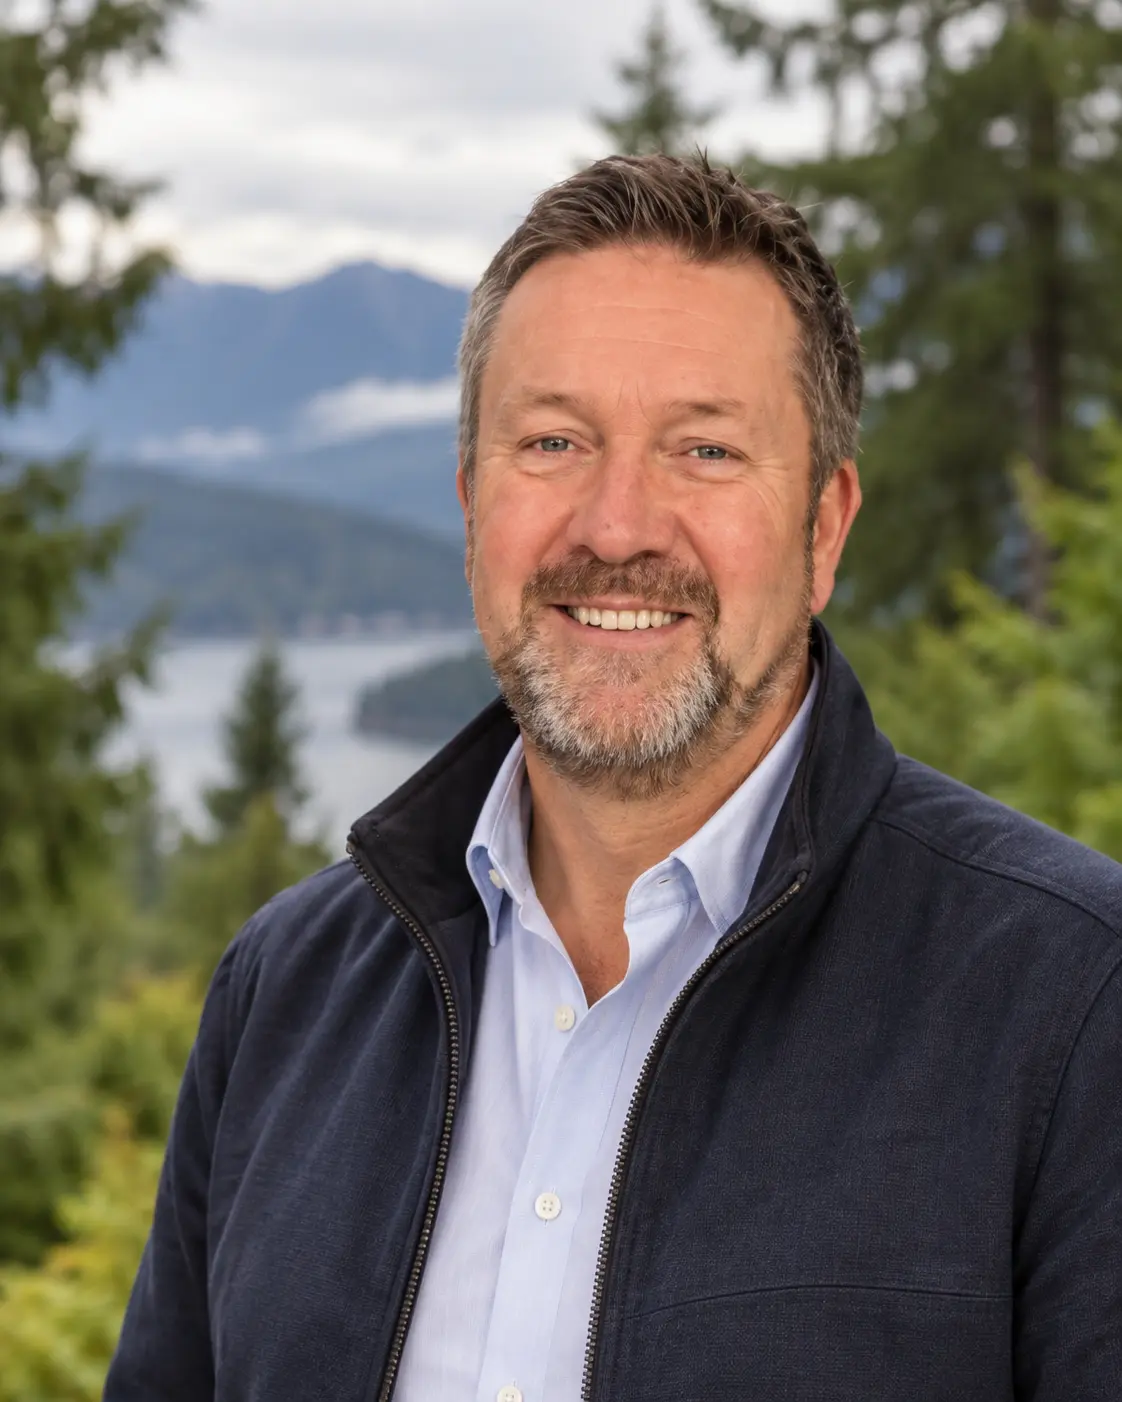
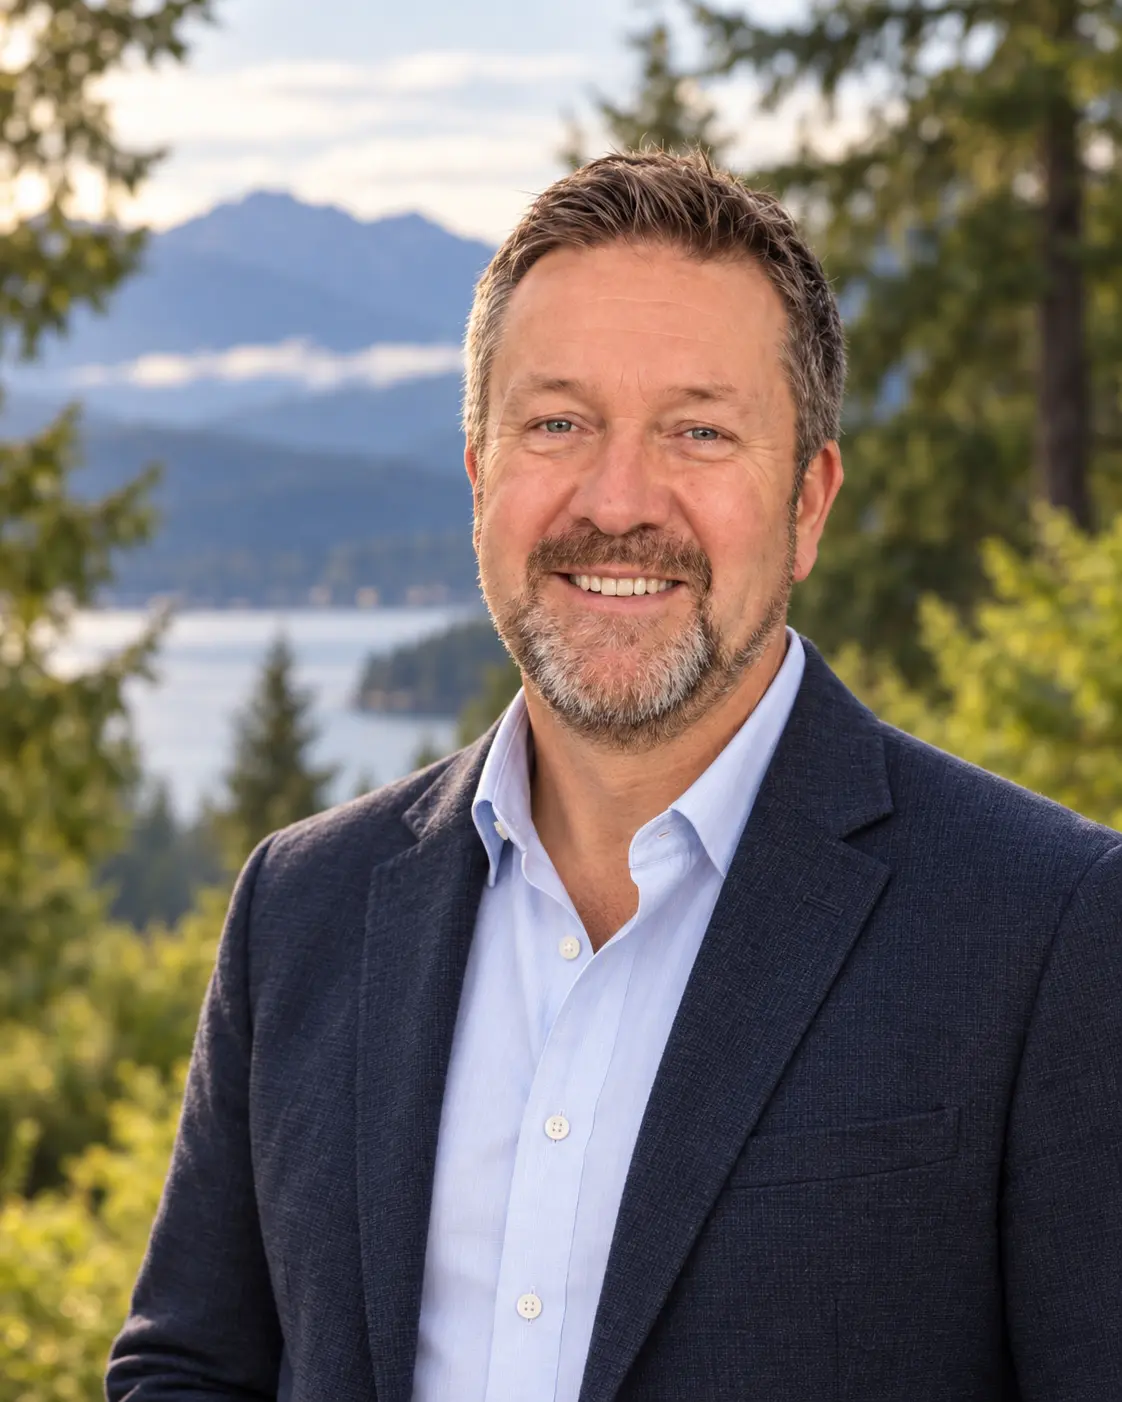
Polish campaign design and upgrade Rod portrait

diff --git a/styles.css b/styles.css
@@ -12,6 +12,7 @@
   --gold-light: #edc47d;
   --line: rgba(23, 33, 30, 0.14);
   --shadow: 0 28px 80px rgba(6, 22, 17, 0.16);
+  --shadow-soft: 0 18px 50px rgba(6, 22, 17, 0.12);
   --serif: Georgia, "Times New Roman", serif;
   --sans: Inter, ui-sans-serif, -apple-system, BlinkMacSystemFont, "Segoe UI", sans-serif;
 }
@@ -44,15 +45,15 @@ button, a { -webkit-tap-highlight-color: transparent; }
 .menu-toggle { display: none; width: 44px; height: 44px; border: 0; background: transparent; cursor: pointer; }
 .menu-toggle > span:not(.sr-only) { display: block; width: 24px; height: 2px; margin: 5px auto; background: currentColor; transition: transform .2s ease, opacity .2s ease; }
 
-.hero { position: relative; min-height: 820px; display: grid; place-items: center; overflow: hidden; color: white; background: var(--forest-950); }
-.hero-landscape { position: absolute; inset: 0; width: 100%; height: 100%; object-fit: cover; object-position: center; opacity: .66; }
-.hero-overlay { position: absolute; inset: 0; background: linear-gradient(90deg, rgba(6,22,18,.93) 0%, rgba(7,27,22,.77) 42%, rgba(7,20,18,.24) 76%, rgba(7,20,18,.08) 100%), linear-gradient(0deg, rgba(6,20,17,.35), transparent 45%); }
-.hero-shell { position: relative; z-index: 2; width: min(1180px, calc(100% - 3rem)); margin: 0 auto; padding: 146px 0 76px; display: grid; grid-template-columns: minmax(0, 1.12fr) minmax(330px, .72fr); align-items: center; gap: clamp(3rem, 8vw, 7rem); }
+.hero { position: relative; min-height: 760px; display: grid; place-items: center; overflow: hidden; color: white; background: var(--forest-950); }
+.hero-landscape { position: absolute; inset: 0; width: 100%; height: 100%; object-fit: cover; object-position: center; opacity: .55; filter: saturate(.82); transform: scale(1.015); }
+.hero-overlay { position: absolute; inset: 0; background: linear-gradient(90deg, rgba(5,22,18,.97) 0%, rgba(6,25,20,.9) 39%, rgba(7,24,20,.56) 66%, rgba(7,20,18,.3) 100%), linear-gradient(0deg, rgba(5,20,16,.48), transparent 52%); }
+.hero-shell { position: relative; z-index: 2; width: min(1180px, calc(100% - 3rem)); margin: 0 auto; padding: 132px 0 70px; display: grid; grid-template-columns: minmax(0, 1.08fr) minmax(340px, .68fr); align-items: center; gap: clamp(3.5rem, 7vw, 6.5rem); }
 .eyebrow { margin: 0 0 1rem; color: var(--gold-light); font-size: .78rem; font-weight: 800; letter-spacing: .18em; text-transform: uppercase; }
 .eyebrow.dark { color: var(--forest-700); }
 .eyebrow.light { color: var(--gold-light); }
-.hero h1 { max-width: 760px; margin: 0; font: 500 clamp(3.4rem, 6.4vw, 6.4rem)/.96 var(--serif); letter-spacing: -.045em; text-wrap: balance; }
-.hero h1 em { color: var(--gold-light); font-weight: 400; }
+.hero h1 { max-width: 720px; margin: 0; font: 500 clamp(3.3rem, 5.3vw, 5.4rem)/.98 var(--serif); letter-spacing: -.04em; text-wrap: balance; }
+.hero h1 em { color: var(--gold-light); font-weight: 400; font-style: normal; }
 .hero-lede { max-width: 620px; margin: 1.75rem 0 0; color: rgba(255,255,255,.87); font-size: clamp(1.05rem, 1.5vw, 1.22rem); line-height: 1.6; }
 .hero-actions, .vote-actions { display: flex; flex-wrap: wrap; align-items: center; gap: 1rem; margin-top: 2rem; }
 .button { display: inline-flex; min-height: 52px; align-items: center; justify-content: center; padding: .85rem 1.35rem; border: 1px solid transparent; border-radius: 999px; font-size: .9rem; font-weight: 760; text-decoration: none; transition: transform .18s ease, background .18s ease, border-color .18s ease; }
@@ -61,17 +62,17 @@ button, a { -webkit-tap-highlight-color: transparent; }
 .button-primary:hover { background: #f6d69e; }
 .button-ghost { color: white; border-color: rgba(255,255,255,.45); background: rgba(255,255,255,.04); }
 .button-ghost:hover { border-color: white; background: rgba(255,255,255,.12); }
-.election-date { display: flex; align-items: center; gap: .85rem; margin-top: 3.5rem; }
+.election-date { display: flex; align-items: center; gap: .85rem; margin-top: 2.8rem; }
 .election-date > span { font: 500 2.8rem/1 var(--serif); color: var(--gold-light); }
 .election-date p { margin: 0; display: flex; flex-direction: column; color: rgba(255,255,255,.66); font-size: .78rem; letter-spacing: .04em; }
 .election-date strong { color: white; font-size: .8rem; letter-spacing: .12em; text-transform: uppercase; }
-.hero-portrait { margin: 0; }
-.portrait-frame { position: relative; overflow: hidden; border: 1px solid rgba(255,255,255,.3); border-radius: 52% 52% 1.2rem 1.2rem / 28% 28% 1.2rem 1.2rem; box-shadow: 0 30px 90px rgba(0,0,0,.35); }
-.portrait-frame::after { content: ""; position: absolute; inset: 0; box-shadow: inset 0 0 0 8px rgba(255,255,255,.06); pointer-events: none; }
-.portrait-frame img { width: 100%; aspect-ratio: 4/5; object-fit: cover; object-position: 50% 40%; }
-.hero-portrait figcaption { display: flex; flex-direction: column; gap: .1rem; padding: 1rem .25rem 0; }
+.hero-portrait { position: relative; width: min(100%, 455px); margin: 0 0 0 auto; }
+.portrait-frame { position: relative; overflow: hidden; aspect-ratio: 4/5; border: 1px solid rgba(255,255,255,.26); border-radius: 1.15rem; background: var(--forest-800); box-shadow: 0 34px 90px rgba(0,0,0,.34); }
+.portrait-frame::after { content: ""; position: absolute; inset: 0; box-shadow: inset 0 0 0 1px rgba(255,255,255,.08); pointer-events: none; }
+.portrait-frame img { width: 100%; height: 100%; object-fit: cover; object-position: 50% 33%; }
+.hero-portrait figcaption { position: absolute; right: 1.25rem; bottom: -1.25rem; left: 1.25rem; display: flex; flex-direction: column; gap: .15rem; padding: 1rem 1.15rem; border: 1px solid rgba(255,255,255,.18); border-radius: .65rem; background: rgba(10,28,24,.94); box-shadow: 0 18px 45px rgba(0,0,0,.24); backdrop-filter: blur(10px); }
 .hero-portrait figcaption strong { color: var(--gold-light); font-family: var(--serif); font-size: 1.15rem; }
-.hero-portrait figcaption span { color: rgba(255,255,255,.72); font-size: .85rem; }
+.hero-portrait figcaption span { color: rgba(255,255,255,.72); font-size: .8rem; }
 
 .proof-band { position: relative; z-index: 3; color: white; background: var(--forest-800); }
 .proof-shell { display: grid; grid-template-columns: repeat(3, 1fr); }
@@ -80,14 +81,14 @@ button, a { -webkit-tap-highlight-color: transparent; }
 .proof-shell strong { color: var(--gold-light); font: 500 2rem/1 var(--serif); }
 .proof-shell span { max-width: 155px; color: rgba(255,255,255,.78); font-size: .8rem; line-height: 1.4; }
 
-.section { padding: clamp(5rem, 9vw, 8.5rem) 0; }
+.section { padding: clamp(5rem, 8vw, 7.5rem) 0; }
 .section-heading { display: grid; grid-template-columns: .55fr 1.2fr .8fr; align-items: end; gap: 3rem; margin-bottom: 3.4rem; }
 .section-heading .eyebrow { align-self: start; }
-.section-heading h2, .story-copy h2, .approach-heading h2, .vote-copy h2, .connect-shell h2 { margin: 0; font: 500 clamp(2.5rem, 4.6vw, 4.8rem)/1.02 var(--serif); letter-spacing: -.035em; text-wrap: balance; }
+.section-heading h2, .story-copy h2, .approach-heading h2, .vote-copy h2, .connect-shell h2 { margin: 0; font: 500 clamp(2.5rem, 4.1vw, 4.35rem)/1.02 var(--serif); letter-spacing: -.035em; text-wrap: balance; }
 .section-heading > p:last-child { margin: 0; color: var(--muted); font-size: 1.02rem; }
 .priorities-section { background: var(--paper); }
 .priority-grid { display: grid; grid-template-columns: repeat(3, 1fr); gap: 1.2rem; }
-.priority-card { position: relative; min-height: 430px; padding: 2.2rem; display: flex; flex-direction: column; justify-content: flex-end; overflow: hidden; border: 1px solid var(--line); border-radius: .9rem; background: #fff; box-shadow: 0 8px 30px rgba(10,30,23,.04); }
+.priority-card { position: relative; min-height: 390px; padding: 2.2rem; display: flex; flex-direction: column; justify-content: flex-end; overflow: hidden; border: 1px solid var(--line); border-radius: .9rem; background: #fff; box-shadow: var(--shadow-soft); }
 .priority-card.featured { color: white; border-color: transparent; background: var(--forest-800); transform: translateY(-1.5rem); box-shadow: var(--shadow); }
 .priority-number { position: absolute; top: 1.5rem; right: 1.6rem; color: rgba(22,44,35,.26); font: 500 .8rem/1 var(--sans); letter-spacing: .16em; }
 .featured .priority-number { color: rgba(255,255,255,.42); }
@@ -100,9 +101,9 @@ button, a { -webkit-tap-highlight-color: transparent; }
 .priority-card.featured p { color: rgba(255,255,255,.72); }
 
 .story-section { background: var(--cream); }
-.story-shell { display: grid; grid-template-columns: minmax(320px, .88fr) minmax(0, 1.1fr); align-items: center; gap: clamp(3rem, 9vw, 8rem); }
-.story-image { position: relative; padding: 0 2.5rem 5rem 0; }
-.story-image > img { width: 100%; aspect-ratio: 4/5; object-fit: cover; object-position: 50% 40%; border-radius: .8rem; box-shadow: var(--shadow); }
+.story-shell { display: grid; grid-template-columns: minmax(320px, .8fr) minmax(0, 1.2fr); align-items: center; gap: clamp(3rem, 8vw, 7rem); }
+.story-image { position: relative; width: 100%; max-width: 500px; padding: 0 2rem 4.5rem 0; }
+.story-image > img { width: 100%; height: clamp(560px, 54vw, 700px); object-fit: cover; object-position: 50% 34%; border-radius: .8rem; box-shadow: var(--shadow); }
 .story-image blockquote { position: absolute; right: 0; bottom: 0; width: min(390px, 84%); margin: 0; padding: 1.7rem 1.8rem; color: white; background: var(--forest-800); border-radius: .5rem; box-shadow: 0 20px 60px rgba(10,30,23,.22); }
 .story-image blockquote p { margin: 0 0 .8rem; font: italic 1.05rem/1.5 var(--serif); }
 .story-image blockquote cite { color: var(--gold-light); font-size: .72rem; font-style: normal; font-weight: 800; letter-spacing: .14em; text-transform: uppercase; }
@@ -123,15 +124,15 @@ button, a { -webkit-tap-highlight-color: transparent; }
 
 .vote-section { background: var(--paper); }
 .vote-shell { display: grid; grid-template-columns: .55fr 1.45fr; gap: clamp(3rem, 8vw, 8rem); align-items: center; }
-.vote-date { width: 280px; height: 280px; display: grid; place-items: center; align-content: center; color: white; background: var(--forest-800); border-radius: 50%; box-shadow: var(--shadow); }
+.vote-date { width: 245px; height: 245px; display: grid; place-items: center; align-content: center; color: white; background: var(--forest-800); border-radius: 50%; box-shadow: var(--shadow-soft); }
 .vote-date span, .vote-date small { font-size: .75rem; font-weight: 800; letter-spacing: .2em; }
-.vote-date strong { margin: -.2rem 0; color: var(--gold-light); font: 500 7rem/.9 var(--serif); }
+.vote-date strong { margin: -.2rem 0; color: var(--gold-light); font: 500 6.2rem/.9 var(--serif); }
 .vote-copy > p:not(.eyebrow) { max-width: 720px; color: var(--muted); }
 .button-dark { color: white; background: var(--forest-800); }
 .button-dark:hover { background: var(--forest-700); }
 .text-link { font-size: .9rem; font-weight: 760; text-underline-offset: .3rem; }
 
-.connect-section { position: relative; padding: clamp(5rem, 8vw, 7rem) 0; overflow: hidden; text-align: center; color: white; background: var(--forest-700); }
+.connect-section { position: relative; padding: clamp(5rem, 7vw, 6.5rem) 0; overflow: hidden; text-align: center; color: white; background: linear-gradient(135deg, var(--forest-700), var(--forest-800)); }
 .connect-section::before { content: ""; position: absolute; inset: 0; opacity: .12; background-image: radial-gradient(circle at 20% 10%, #fff 0 1px, transparent 1px), radial-gradient(circle at 80% 90%, #fff 0 1px, transparent 1px); background-size: 28px 28px, 34px 34px; }
 .connect-shell { position: relative; z-index: 1; }
 .connect-shell h2 { max-width: 760px; margin-inline: auto; }
@@ -156,8 +157,8 @@ button, a { -webkit-tap-highlight-color: transparent; }
   .menu-toggle.open > span:nth-child(2) { opacity: 0; }
   .menu-toggle.open > span:nth-child(3) { transform: translateY(-7px) rotate(-45deg); }
   .hero { min-height: auto; }
-  .hero-shell { grid-template-columns: 1fr .68fr; gap: 2.5rem; padding-top: 125px; }
-  .hero h1 { font-size: clamp(3.15rem, 8vw, 5.2rem); }
+  .hero-shell { grid-template-columns: 1fr .68fr; gap: 2.5rem; padding-top: 116px; }
+  .hero h1 { font-size: clamp(3.05rem, 7.7vw, 4.8rem); }
   .proof-shell > div { padding-inline: 1.3rem; }
   .section-heading { grid-template-columns: 1fr 1fr; }
   .section-heading > p:last-child { grid-column: 2; }
@@ -166,20 +167,21 @@ button, a { -webkit-tap-highlight-color: transparent; }
   .priority-card.featured { transform: none; }
   .story-shell, .approach-shell { gap: 3.5rem; }
   .vote-shell { grid-template-columns: .6fr 1.4fr; gap: 3rem; }
-  .vote-date { width: 220px; height: 220px; }
-  .vote-date strong { font-size: 5.5rem; }
+  .vote-date { width: 205px; height: 205px; }
+  .vote-date strong { font-size: 5.1rem; }
 }
 
 @media (max-width: 700px) {
   .nav-shell, .section-shell, .story-shell, .approach-shell, .vote-shell, .connect-shell, .footer-shell, .proof-shell { width: min(100% - 2rem, 1180px); }
   .brand-copy strong { font-size: 1.05rem; }
-  .hero-shell { width: min(100% - 2rem, 1180px); grid-template-columns: 1fr; padding: 116px 0 3.5rem; }
+  .hero-shell { width: min(100% - 2rem, 1180px); grid-template-columns: 1fr; padding: 110px 0 4.5rem; }
   .hero-landscape { object-position: 63% center; }
   .hero-overlay { background: linear-gradient(180deg, rgba(6,22,18,.93) 0%, rgba(7,27,22,.72) 48%, rgba(7,20,18,.78) 100%); }
-  .hero h1 { font-size: clamp(3rem, 15vw, 4.5rem); }
+  .hero h1 { font-size: clamp(2.9rem, 14vw, 4.15rem); }
   .hero-lede { font-size: 1rem; }
   .election-date { margin-top: 2.5rem; }
-  .hero-portrait { width: min(360px, 88vw); margin-inline: auto; }
+  .hero-portrait { width: min(390px, 88vw); margin: .5rem auto 1rem; }
+  .hero-portrait figcaption { right: .8rem; bottom: -.9rem; left: .8rem; }
   .proof-shell { width: 100%; grid-template-columns: 1fr; }
   .proof-shell > div { min-height: 86px; padding: 1.2rem max(1rem, calc((100vw - min(100% - 2rem, 1180px)) / 2)); border-right: 0; border-bottom: 1px solid rgba(255,255,255,.15); }
   .proof-shell > div:last-child { border-bottom: 0; }
@@ -190,6 +192,7 @@ button, a { -webkit-tap-highlight-color: transparent; }
   .story-shell, .approach-shell, .vote-shell { grid-template-columns: 1fr; }
   .story-shell { gap: 3rem; }
   .story-image { padding: 0 1.2rem 4.5rem 0; }
+  .story-image > img { height: min(130vw, 640px); }
   .story-image blockquote { width: min(360px, 92%); padding: 1.3rem; }
   .approach-heading { position: static; }
   .vote-date { width: 185px; height: 185px; }
